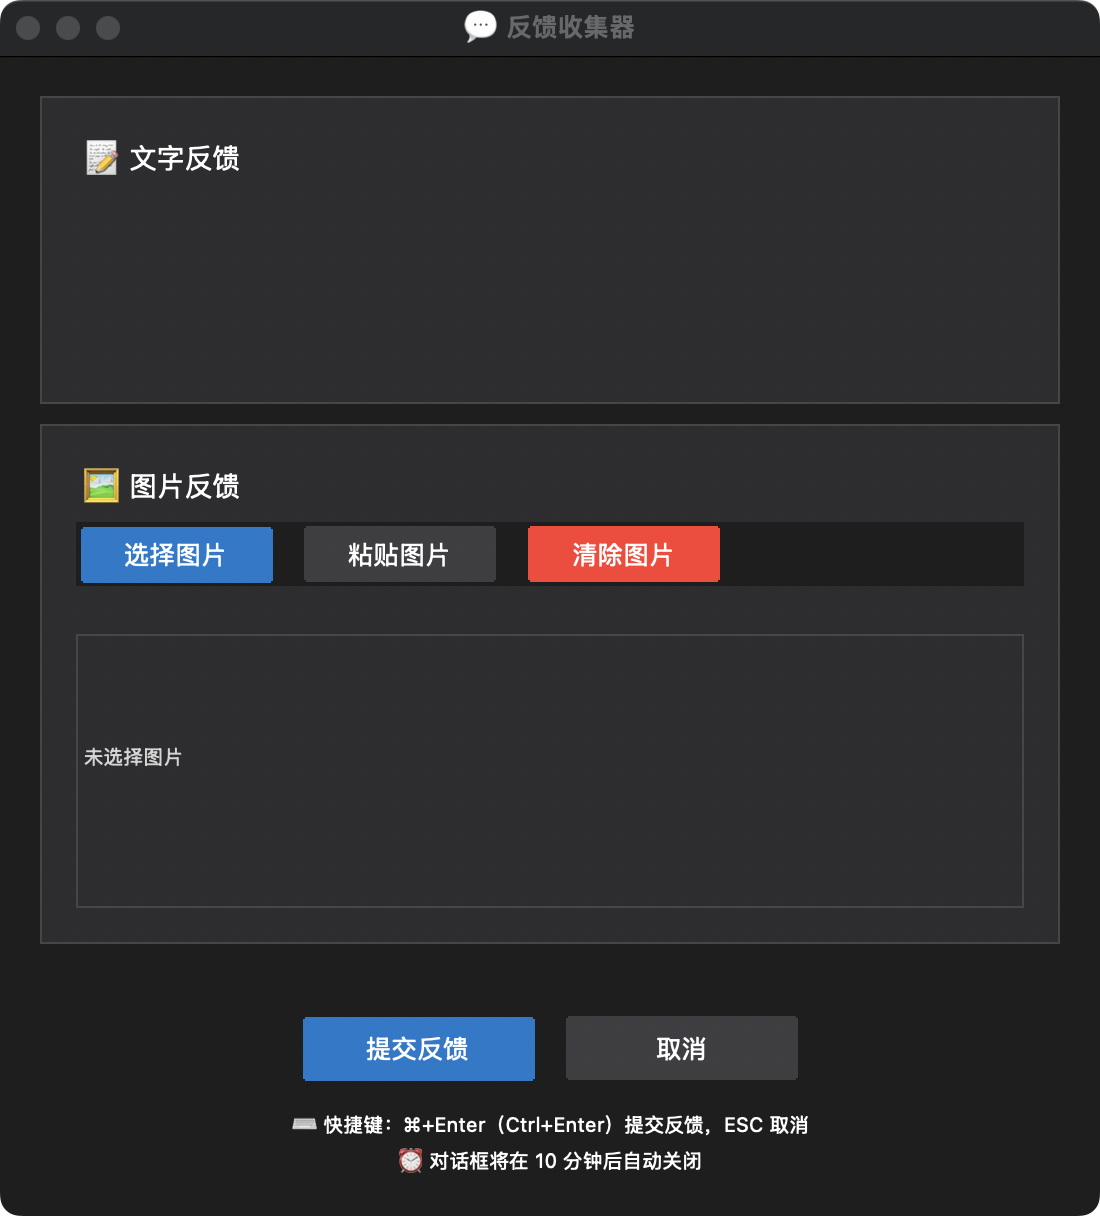
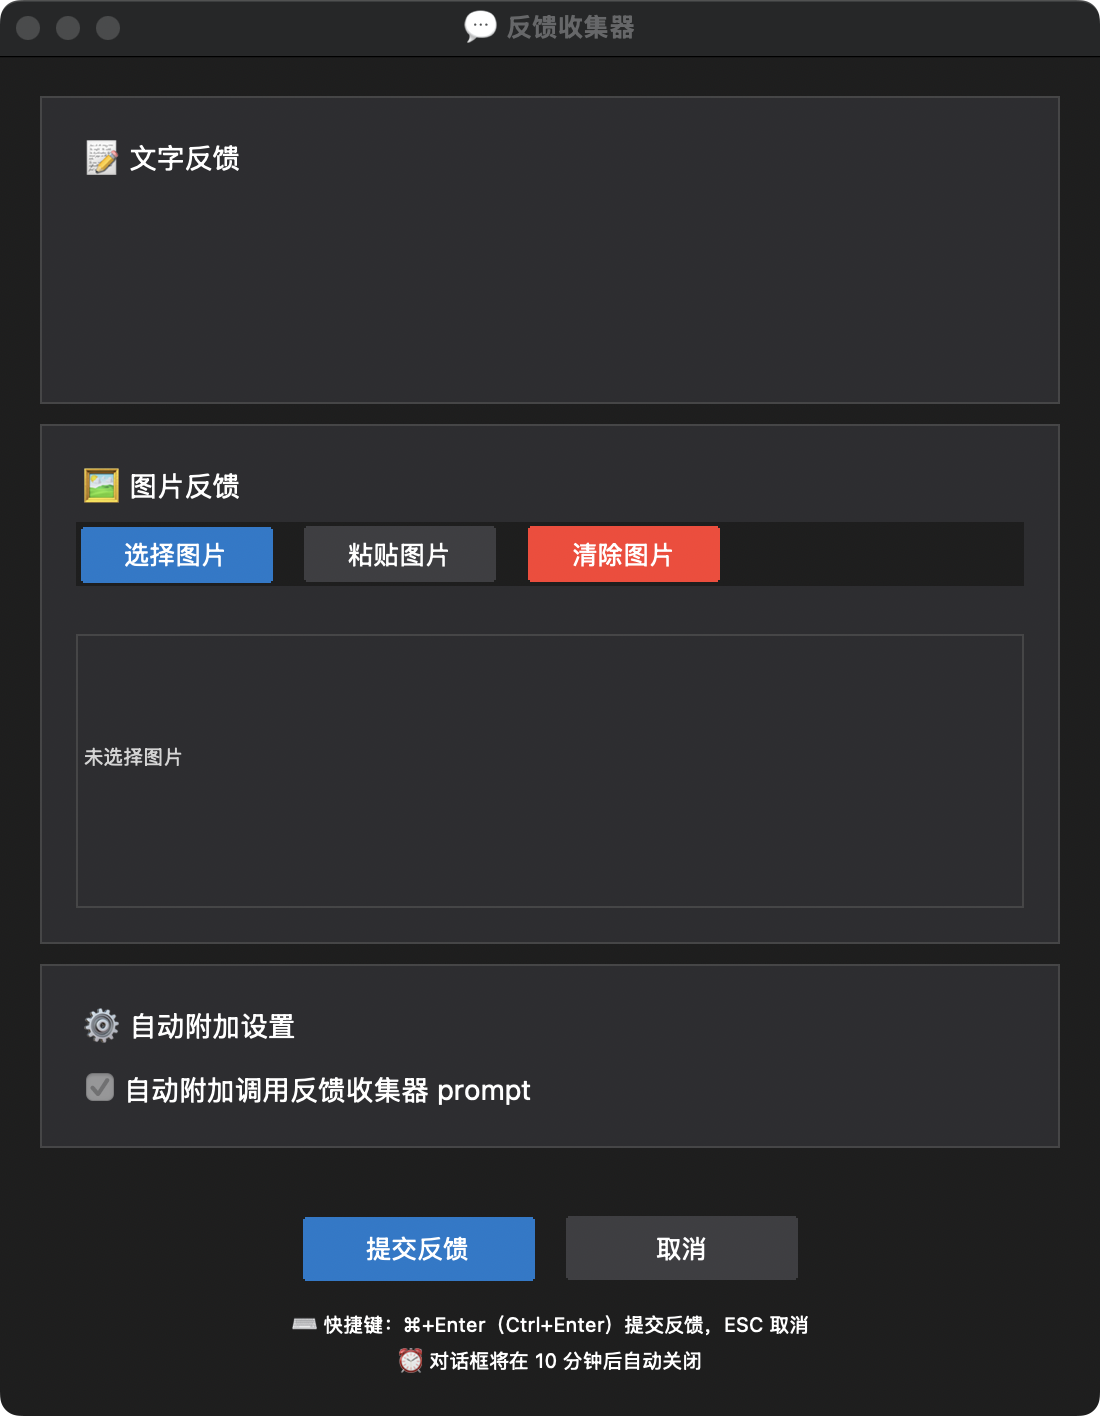
feat: add auto-append feature and reorganize config files
- Auto-append feedback collector prompts with user preference
- Restructure config examples into dedicated directory
- Update docs and add i18n support

diff --git a/src/ui/feedback_dialog.py b/src/ui/feedback_dialog.py
@@ -40,6 +40,9 @@ except ImportError:
 class ModernFeedbackDialog:
     """反馈收集对话框"""
 
+    # 类级别变量，记住用户的自动附加偏好设置
+    _user_auto_append_preference = True  # 默认为True
+
     def __init__(self, timeout_seconds: int = 600):
         self.timeout_seconds = timeout_seconds
         self.feedback_collector = FeedbackCollector(timeout_seconds)
@@ -49,6 +52,7 @@ class ModernFeedbackDialog:
         self.window: Optional[tk.Tk] = None
         self.text_area: Optional[MacOSTextArea] = None
         self.image_gallery: Optional[ImageGallery] = None
+        self.auto_append_var: Optional[tk.BooleanVar] = None  # 自动附加复选框变量
 
         # 状态
         self.result = None
@@ -113,7 +117,7 @@ class ModernFeedbackDialog:
 
         # 设置窗口属性
         self.window.resizable(True, True)
-        self.window.minsize(500, 550)
+        self.window.minsize(500, 650)  # 增加最小高度从550到650
 
         # 设置主题
         theme = DarkThemeManager
@@ -153,7 +157,7 @@ class ModernFeedbackDialog:
 
         # 设置窗口大小和居中位置
         window_width = 550
-        window_height = 580
+        window_height = 680  # 增加默认高度从580到680
         screen_width = self.window.winfo_screenwidth()
         screen_height = self.window.winfo_screenheight()
         x = (screen_width // 2) - (window_width // 2)
@@ -199,6 +203,11 @@ class ModernFeedbackDialog:
         if self.image_gallery:
             self.image_gallery.clear_images()
 
+        # 保持用户的自动附加偏好设置，而不是重置为默认值
+        if self.auto_append_var:
+            self.auto_append_var.set(
+                ModernFeedbackDialog._user_auto_append_preference)
+
     def _create_ui(self, parent: tk.Widget):
         """创建用户界面"""
         # 创建主内容区域
@@ -211,6 +220,9 @@ class ModernFeedbackDialog:
 
         # 图片反馈区域
         self._create_image_feedback_section(content_frame)
+
+        # 自动附加复选框区域
+        self._create_auto_append_section(content_frame)
 
         # 操作按钮区域（固定在底部）
         self._create_action_buttons(parent)
@@ -280,6 +292,35 @@ class ModernFeedbackDialog:
 
         # 设置图片移除回调
         self.image_gallery.on_image_remove = self._on_image_removed
+
+    def _create_auto_append_section(self, parent: tk.Widget):
+        """创建自动附加复选框区域"""
+        # 自动附加复选框卡片
+        auto_append_card = MacOSCard(parent, get_text('auto_append_title'))
+        auto_append_card.pack(fill=tk.X, pady=(
+            0, self.theme.get_size('spacing_v')))
+
+        # 自动附加复选框
+        self.auto_append_var = tk.BooleanVar()
+        # 使用用户的偏好设置，而不是硬编码为True
+        self.auto_append_var.set(
+            ModernFeedbackDialog._user_auto_append_preference)
+
+        auto_append_checkbox = tk.Checkbutton(
+            auto_append_card.content_frame,
+            text=get_text('auto_append_checkbox'),
+            variable=self.auto_append_var,
+            bg=self.theme.get_color('bg_secondary'),
+            fg=self.theme.get_color('text_primary'),
+            selectcolor=self.theme.get_color('bg_primary'),
+            activebackground=self.theme.get_color('bg_secondary'),
+            activeforeground=self.theme.get_color('text_primary'),
+            relief=tk.FLAT,
+            font=self.theme.get_font('body'),
+            # 添加回调函数来保存用户的选择
+            command=self._on_auto_append_changed
+        )
+        auto_append_checkbox.pack(anchor='w', padx=0, pady=0)
 
     def _create_action_buttons(self, parent: tk.Widget):
         """创建操作按钮"""
@@ -366,6 +407,14 @@ class ModernFeedbackDialog:
             # 获取文字反馈
             text_feedback = self.text_area.get_text().strip()
 
+            # 如果勾选了自动附加复选框，则在文字反馈后追加内容
+            if self.auto_append_var and self.auto_append_var.get():
+                append_text = get_text('auto_append_content')
+                if text_feedback:
+                    text_feedback = f"{text_feedback}\n\n\n{append_text}"
+                else:
+                    text_feedback = append_text
+
             # 获取图片反馈
             images = self.image_gallery.get_images()
 
@@ -423,6 +472,12 @@ class ModernFeedbackDialog:
         }
         # 隐藏对话框
         self._hide_window()
+
+    def _on_auto_append_changed(self):
+        """当自动附加复选框状态改变时的回调"""
+        if self.auto_append_var:
+            # 保存用户的偏好设置到类级别变量
+            ModernFeedbackDialog._user_auto_append_preference = self.auto_append_var.get()
 
     def destroy(self):
         """销毁对话框（仅在程序结束时调用）"""

diff --git a/test_ui.py b/test_ui.py
@@ -1,122 +1,37 @@
 #!/usr/bin/env python3
 """
 直接测试反馈收集器UI界面
-测试窗口重用功能
 """
 
-from src.ui.feedback_dialog import ModernFeedbackDialog
 import sys
 import os
 
 # 添加项目根目录到路径
 sys.path.insert(0, os.path.dirname(os.path.abspath(__file__)))
 
+from src.ui.feedback_dialog import ModernFeedbackDialog
 
-def test_single_dialog():
-    """测试单次对话框"""
-    print("=== 单次对话框测试 ===")
-
+def main():
+    """主函数"""
+    print("启动反馈收集器界面测试...")
+    
     try:
         # 创建对话框
         dialog = ModernFeedbackDialog(timeout_seconds=0)  # 无超时
-
+        
         # 显示界面
         result = dialog.show_dialog()
-
+        
         # 打印结果
         if result:
             print(f"反馈结果: {result}")
         else:
             print("用户取消了反馈")
-
-        # 清理资源
-        dialog.destroy()
-
+            
     except Exception as e:
         print(f"启动界面失败: {e}")
         import traceback
         traceback.print_exc()
-
-
-def test_reusable_dialog():
-    """测试可重用对话框"""
-    print("=== 可重用对话框测试 ===")
-
-    try:
-        # 创建对话框（只创建一次）
-        dialog = ModernFeedbackDialog(timeout_seconds=0)  # 无超时
-
-        test_count = 0
-        max_tests = 3
-
-        while test_count < max_tests:
-            test_count += 1
-            print(f"\n--- 第 {test_count} 次测试 ---")
-            print("请在对话框中输入反馈或取消...")
-
-            # 显示界面（重用同一个窗口）
-            result = dialog.show_dialog()
-
-            # 打印结果
-            if result:
-                if result.get('success'):
-                    print(f"✅ 反馈提交成功!")
-                    if result.get('has_text'):
-                        print(f"   文字反馈: {result['text_feedback'][:50]}...")
-                    if result.get('has_images'):
-                        print(f"   图片数量: {len(result['images'])}")
-                else:
-                    print(f"❌ 操作取消: {result.get('message', '未知原因')}")
-            else:
-                print("❌ 未获取到结果")
-
-            # 询问是否继续测试
-            if test_count < max_tests:
-                try:
-                    continue_test = input(
-                        f"\n是否继续测试？(y/n，剩余 {max_tests - test_count} 次): ").strip().lower()
-                    if continue_test not in ['y', 'yes', '是', '']:
-                        break
-                except KeyboardInterrupt:
-                    print("\n用户中断测试")
-                    break
-
-        print(f"\n=== 测试完成，共进行了 {test_count} 次测试 ===")
-
-        # 最后清理资源
-        dialog.destroy()
-        print("✅ 资源清理完成")
-
-    except Exception as e:
-        print(f"启动界面失败: {e}")
-        import traceback
-        traceback.print_exc()
-
-
-def main():
-    """主函数"""
-    print("反馈收集器界面测试工具")
-    print("=" * 40)
-
-    try:
-        test_mode = input(
-            "选择测试模式:\n1. 单次测试\n2. 重用测试（推荐）\n请输入选择 (1/2): ").strip()
-
-        if test_mode == "1":
-            test_single_dialog()
-        elif test_mode == "2" or test_mode == "":
-            test_reusable_dialog()
-        else:
-            print("无效选择，使用默认的重用测试模式")
-            test_reusable_dialog()
-
-    except KeyboardInterrupt:
-        print("\n\n用户中断测试")
-    except Exception as e:
-        print(f"测试失败: {e}")
-        import traceback
-        traceback.print_exc()
-
 
 if __name__ == "__main__":
     main()

diff --git a/src/utils/i18n.py b/src/utils/i18n.py
@@ -23,6 +23,7 @@ TRANSLATIONS = {
         # 卡片标题
         'text_feedback_title': '📝 文字反馈',
         'image_feedback_title': '🖼 图片反馈',
+        'auto_append_title': '⚙ 自动附加设置',
 
         # 按钮文本
         'submit_button': '提交反馈',
@@ -32,6 +33,10 @@ TRANSLATIONS = {
         'clear_images_button': '清除图片',
         'select_file_button': '选择文件',
         'paste_clipboard_button': '粘贴剪贴板',
+
+        # 复选框文本
+        'auto_append_checkbox': '自动附加调用反馈收集器 prompt',
+        'auto_append_content': '以下是你需要非常注意的 2 点：\n1. 对以上用户反馈进行处理（或回答）。\n2. 在处理完（或回答完）以上用户反馈后，必须重新调用 <feedback-collector.collect_feedback> MCP 以获取用户反馈',
 
         # 占位符文本
         'text_placeholder': '请在此输入您的反馈、建议或问题...',
@@ -98,6 +103,7 @@ TRANSLATIONS = {
         # Card titles
         'text_feedback_title': '📝 Text Feedback',
         'image_feedback_title': '🖼 Image Feedback',
+        'auto_append_title': '⚙ Automatic Append Settings',
 
         # Button text
         'submit_button': 'Submit Feedback',
@@ -107,6 +113,10 @@ TRANSLATIONS = {
         'clear_images_button': 'Clear Images',
         'select_file_button': 'Select File',
         'paste_clipboard_button': 'Paste Clipboard',
+
+        # Checkbox text
+        'auto_append_checkbox': 'Automatically Append Feedback Collector Prompt',
+        'auto_append_content': 'The following are the 2 points you must pay attention to:\n1. Process (or answer) the above user feedback.\n2. After processing (or answering) the above user feedback, you must re-call <feedback-collector.collect_feedback> MCP to get user feedback',
 
         # Placeholder text
         'text_placeholder': 'Please enter your feedback, suggestions or questions here...',

diff --git a/README.md b/README.md
@@ -28,7 +28,7 @@ The core purpose of this MCP tool is:
 
 |  | <div align="center">Before</div> | <div align="center">After</div> |
 |--|--------|--------|
-| **Workflow** | <div align="center">Input in Agent mode: Complete &lt;Task 1&gt;</div><div align="center">⬇</div><div align="center">Task completed, this fast request ends</div> | <div align="center">Input in Agent mode: Complete &lt;Task 1&gt;</div><div align="center">⬇</div><div align="center">Task completed, call feedback collector for feedback</div><div align="center">⬇</div><div align="center">Input in MCP tool: Complete &lt;Task 2&gt;</div><div align="center">⬇</div><div align="center">Task completed, call feedback collector for feedback</div><div align="center">⬇</div><div align="center">Input in MCP tool: Complete &lt;Task 3&gt;</div><div align="center">⬇</div><div align="center">Task completed, call feedback collector for feedback</div><div align="center">⬇</div><div align="center">Input in MCP tool: Complete &lt;Task 4&gt;</div><div align="center">⬇</div><div align="center">Task completed, call feedback collector for feedback</div><div align="center">⬇</div><div align="center">Input in MCP tool: Complete &lt;Task 5&gt;</div><div align="center">⬇</div><div align="center">Task completed, call feedback collector for feedback</div><div align="center">⬇</div><div align="center">Input in MCP tool: Complete &lt;Task 6&gt;</div><div align="center">⬇</div><div align="center">...until reaching 25 tool call limit</div> |
+| **Workflow** | <div align="center">Input in Agent mode: Complete &lt;Task 1&gt;</div><div align="center">⬇</div><div align="center">Task completed, this fast request ends</div> | <div align="center">Input in Agent mode: Complete &lt;Task 1&gt;</div><div align="center">⬇</div><div align="center">Task completed, call feedback collector for feedback</div><div align="center">⬇</div><div align="center">Input in MCP tool: Complete &lt;Task 2&gt;</div><div align="center">⬇</div><div align="center">Task completed, call feedback collector for feedback</div><div align="center">⬇</div><div align="center">Input in MCP tool: Complete &lt;Task 3&gt;</div><div align="center">⬇</div><div align="center">Task completed, call feedback collector for feedback</div><div align="center">⬇</div><div align="center">......</div><div align="center">⬇</div><div align="center">until reaching 25 tool call limit</div> |
 | **Request Consumption** | <div align="center">Consumes 1 Request</div> | <div align="center">Consumes 1 Request</div> |
 
 ## Features
@@ -87,7 +87,7 @@ Add the following configuration to Cursor's MCP configuration file:
 }
 ```
 
-**Example configuration file**: [mcp_config_example_for_mac_and_linux.json](mcp_config_example_for_mac_and_linux.json)
+**Example configuration file**: [mcp_config_example_for_mac_and_linux.json](config_example/mcp_config_example_for_mac_and_linux.json)
 
 ### Windows Configuration
 
@@ -109,7 +109,7 @@ Add the following configuration to Cursor's MCP configuration file:
 }
 ```
 
-**Example configuration file**: [mcp_config_example_for_windows_1.json](mcp_config_example_for_windows_1.json)
+**Example configuration file**: [mcp_config_example_for_windows_1.json](config_example/mcp_config_example_for_windows_1.json)
 
 **Method 2: Using cmd wrapper**
 ```json
@@ -131,7 +131,7 @@ Add the following configuration to Cursor's MCP configuration file:
 }
 ```
 
-**Example configuration file**: [mcp_config_example_for_windows_2.json](mcp_config_example_for_windows_2.json)
+**Example configuration file**: [mcp_config_example_for_windows_2.json](config_example/mcp_config_example_for_windows_2.json)
 
 **Configuration Description**:
 - `command`: Python interpreter path or system command

diff --git a/README_CN.md b/README_CN.md
@@ -28,7 +28,7 @@
 
 |  | <div align="center">使用前</div> | <div align="center">使用后</div> |
 |--|--------|--------|
-| **工作流程** | <div align="center">在 Agent 模式下输入：完成 &lt;任务 1&gt;</div><div align="center">⬇</div><div align="center">任务完成，本次快速请求结束</div> | <div align="center">在 Agent 模式下输入：完成 &lt;任务 1&gt;</div><div align="center">⬇</div><div align="center">任务完成，调用反馈收集器获取反馈</div><div align="center">⬇</div><div align="center">在 MCP 工具中输入：完成 &lt;任务 2&gt;</div><div align="center">⬇</div><div align="center">任务完成，调用反馈收集器获取反馈</div><div align="center">⬇</div><div align="center">在 MCP 工具中输入：完成 &lt;任务 3&gt;</div><div align="center">⬇</div><div align="center">任务完成，调用反馈收集器获取反馈</div><div align="center">⬇</div><div align="center">在 MCP 工具中输入：完成 &lt;任务 4&gt;</div><div align="center">⬇</div><div align="center">任务完成，调用反馈收集器获取反馈</div><div align="center">⬇</div><div align="center">在 MCP 工具中输入：完成 &lt;任务 5&gt;</div><div align="center">⬇</div><div align="center">任务完成，调用反馈收集器获取反馈</div><div align="center">⬇</div><div align="center">在 MCP 工具中输入：完成 &lt;任务 6&gt;</div><div align="center">⬇</div><div align="center">...直到达到 25 次工具调用限额</div> |
+| **工作流程** | <div align="center">在 Agent 模式下输入：完成 &lt;任务 1&gt;</div><div align="center">⬇</div><div align="center">任务完成，本次快速请求结束</div> | <div align="center">在 Agent 模式下输入：完成 &lt;任务 1&gt;</div><div align="center">⬇</div><div align="center">任务完成，调用反馈收集器获取反馈</div><div align="center">⬇</div><div align="center">在 MCP 工具中输入：完成 &lt;任务 2&gt;</div><div align="center">⬇</div><div align="center">任务完成，调用反馈收集器获取反馈</div><div align="center">⬇</div><div align="center">在 MCP 工具中输入：完成 &lt;任务 3&gt;</div><div align="center">⬇</div><div align="center">任务完成，调用反馈收集器获取反馈</div><div align="center">⬇</div><div align="center">......</div><div align="center">⬇</div><div align="center">直到达到 25 次工具调用限额</div> |
 | **消耗 Request 统计** | <div align="center">消耗 1 次 Request</div> | <div align="center">消耗 1 次 Request</div> |
 
 ## 特性
@@ -87,7 +87,7 @@ pip install -r requirements.txt
 }
 ```
 
-**配置文件示例**: [mcp_config_example_for_mac_and_linux.json](mcp_config_example_for_mac_and_linux.json)
+**配置文件示例**: [mcp_config_example_for_mac_and_linux.json](config_example/mcp_config_example_for_mac_and_linux.json)
 
 ### Windows 配置
 
@@ -109,7 +109,7 @@ pip install -r requirements.txt
 }
 ```
 
-**配置文件示例**: [mcp_config_example_for_windows_1.json](mcp_config_example_for_windows_1.json)
+**配置文件示例**: [mcp_config_example_for_windows_1.json](config_example/mcp_config_example_for_windows_1.json)
 
 **方法二：使用 cmd 包装器**
 ```json
@@ -131,7 +131,7 @@ pip install -r requirements.txt
 }
 ```
 
-**配置文件示例**: [mcp_config_example_for_windows_2.json](mcp_config_example_for_windows_2.json)
+**配置文件示例**: [mcp_config_example_for_windows_2.json](config_example/mcp_config_example_for_windows_2.json)
 
 **配置说明**：
 - `command`: Python 解释器路径或系统命令
